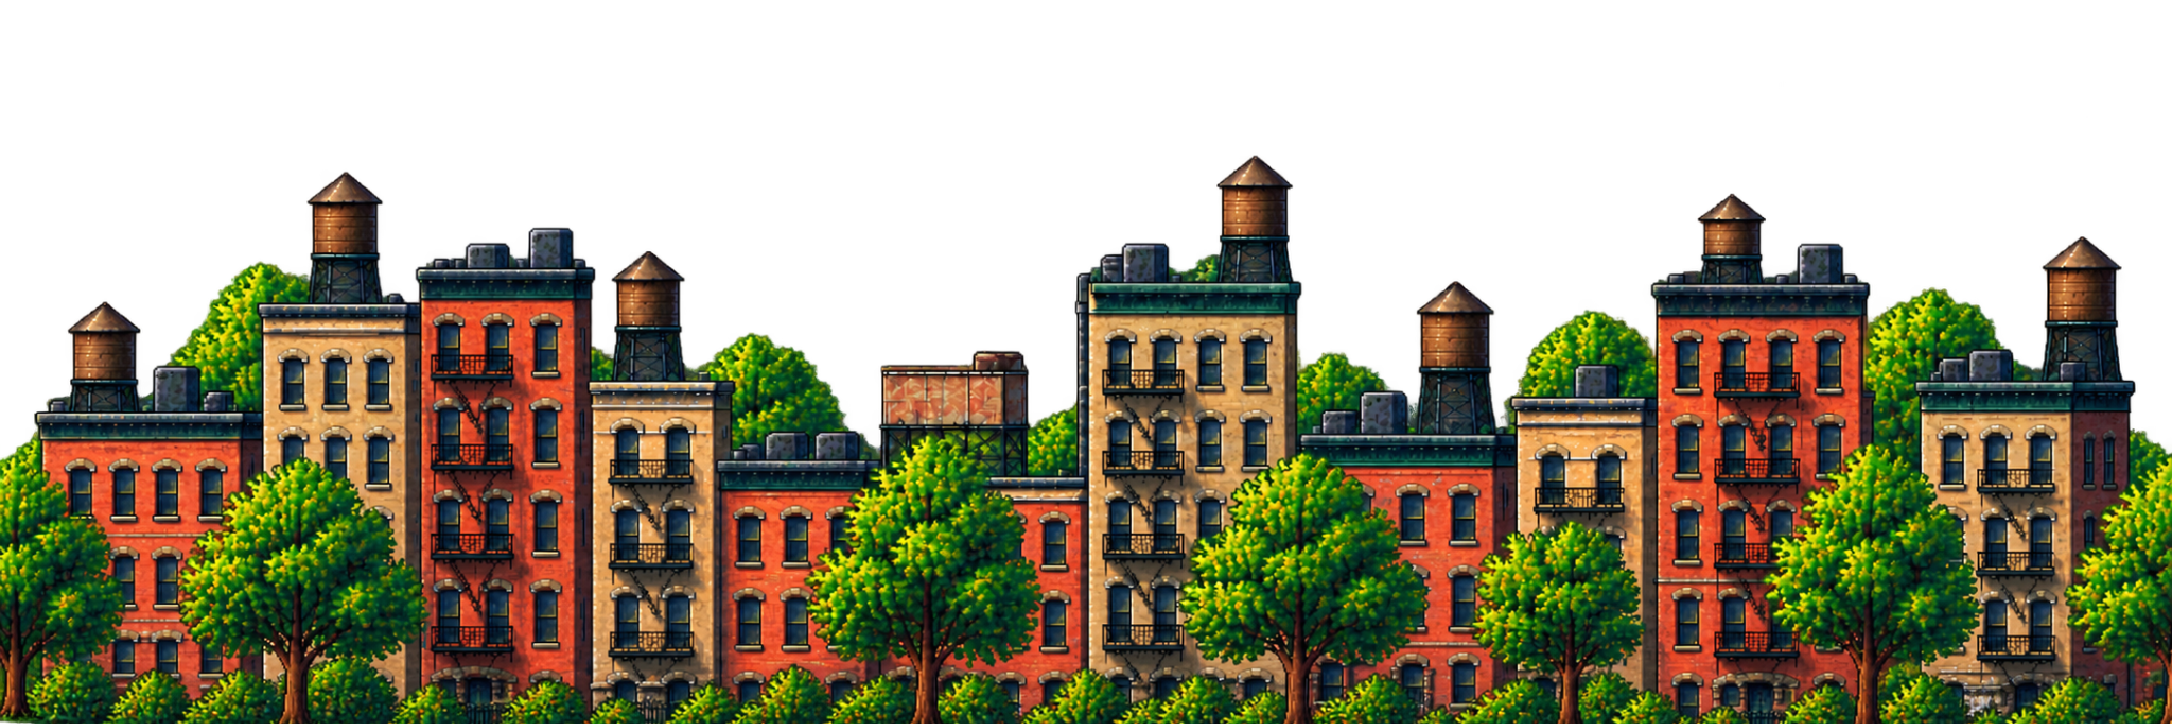
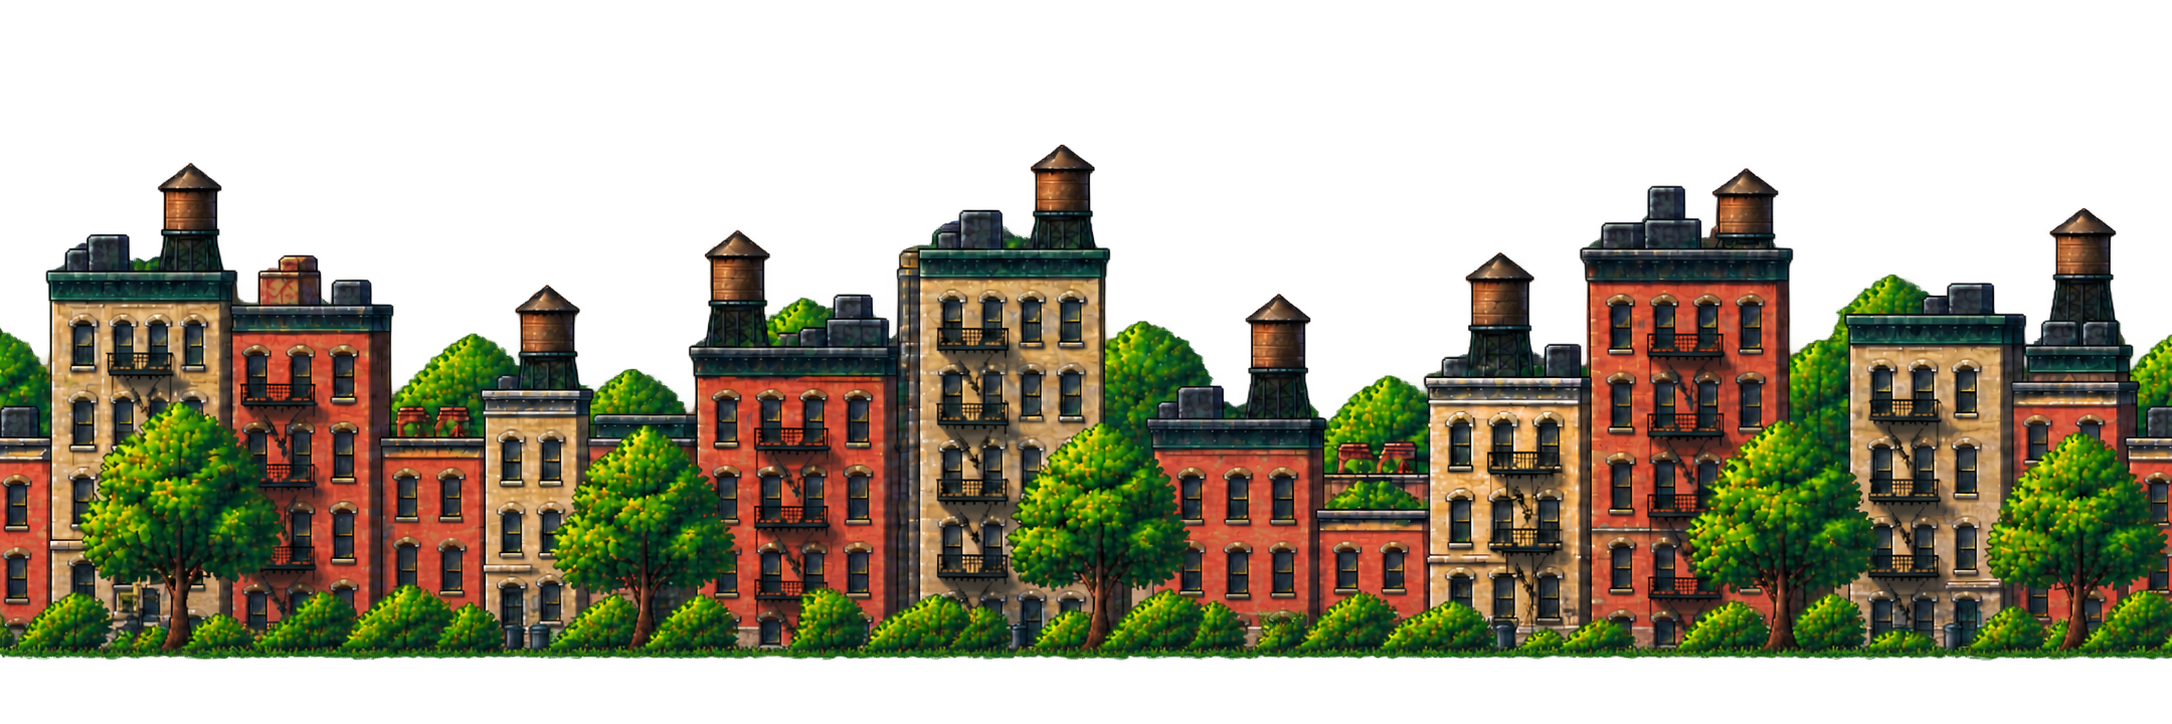
Deploy approved regenerated NA03 mid

diff --git a/src/js/game-runtime.js b/src/js/game-runtime.js
@@ -1403,7 +1403,7 @@ const ASSET_SOURCES={
  na02Mid:PHASE8_PILOT?"../assets/phase8-validation/north-america/NA02_BG_MID_PINES.png?v=cc4a6f43-verified":"../assets/worlds/north-america/NA02_BG_MID_PINES.png",
  na02Ground:PHASE8_PILOT?"../assets/phase8-validation/north-america/NA02_GROUND_TRAIL.png?v=f6ada52c-verified":"../assets/worlds/north-america/NA02_GROUND_TRAIL.png",
  na03Far:PHASE8_PILOT?"../assets/phase8-validation/north-america/NA03_BG_DISTANT_NYC.png?v=be8f72c6":"../assets/worlds/north-america/NA03_BG_DISTANT_NYC.png",
- na03Mid:PHASE8_PILOT?"../assets/phase8-validation/north-america/NA03_BG_MID_CITY.png?v=97b3a625":"../assets/worlds/north-america/NA03_BG_MID_CITY.png",
+ na03Mid:PHASE8_PILOT?"../assets/phase8-validation/north-america/NA03_BG_MID_CITY.png?v=adc6a17a":"../assets/worlds/north-america/NA03_BG_MID_CITY.png",
  na03Ground:PHASE8_PILOT?"../assets/phase8-validation/north-america/NA03_GROUND_CITY.png?v=095aa9cb":"../assets/worlds/north-america/NA03_GROUND_CITY.png",
  far:PHASE8_PILOT?"../assets/phase8-validation/north-america/NA01_BG_DISTANT_MESAS.png":"../assets/worlds/north-america/NA01_BG_DISTANT_MESAS.png",
  clouds:"../assets/shared/NA_CLOUD_LAYER.png"

diff --git a/docs/CURRENT_STATUS.md b/docs/CURRENT_STATUS.md
@@ -54,9 +54,9 @@ Production CI checks the production/development dependency boundary, syntax for 
 - cold first-load optimization / staged asset loading
 
 ## Next production step
-NA01 and NA02 landscape sets are approved. Dependent character/hazard grounding and later configuration calibration remain intentionally deferred until landscape generation is complete. NA03 is pending corrected complete-stage Git integration, deployed Design/Test/Game QA and one final user acceptance gate. It is not user-approved yet.
+NA01 and NA02 landscape sets are approved. Dependent character/hazard grounding and later configuration calibration remain intentionally deferred until landscape generation is complete. The newly generated NA03 MID standalone candidate is user-approved and is being integrated at standard runtime `Y=0`; NA03 still requires deployed Design/Test/Game QA and one final complete-stage user acceptance gate. The NA03 stage is not approved yet.
 
[2 lines of base64/hex data omitted]
 
 Current pilot QA evidence: NA01's yellow legacy seam, red rendered GROUND surface and cyan rendered MID base coincide at canonical Y=410, so the cyan guide (drawn last) visually covers the other two. This is expected alignment, not a missing ground guide. Legacy NA02 retains separated calibration values, so its three evidence lines remain visibly distinct.
 

diff --git a/docs/DECISION_LOG.md b/docs/DECISION_LOG.md
@@ -165,3 +165,9 @@ The ordinary attachment transport exposed only a resized 2048x684 proxy, while t
 Deployed integrated review exposed a small gap between the NA03 MID and GROUND at the standard runtime MID offset `Y=0`. The user verified that a runtime adjustment of approximately `+18` logical pixels closed the gap, resupplied the intended brownstone image and explicitly accepted its foliage and façade details for integration.
 
[1 lines of base64/hex data omitted]
+
+## 2026-09-18 — Fresh NA03 MID supersedes the translated supplied correction
+
+Deployed comparison at runtime MID offsets `Y=0` and `Y=-18` established that the translated supplied MID could not simultaneously retain the intended restrained bushes/sidewalk relationship and satisfy the universal standard runtime offset `Y=0`. The user authorized a fresh generation against the locked Phase 8 MID contract rather than further translation or optimization of the supplied image.
+
[1 lines of base64/hex data omitted]

diff --git a/docs/PHASE8_LANDSCAPE_PROMPT_MANIFEST.md b/docs/PHASE8_LANDSCAPE_PROMPT_MANIFEST.md
@@ -119,9 +119,9 @@ Create the GROUND gameplay layer on a transparent 2172 x 724 canvas. Author one 
 
 - Reference: `assets-original/current-generated/NA-assets/NA03_BG_MID_CITY.png`
 - Candidate: `assets/phase8-validation/north-america/NA03_BG_MID_CITY.png`
-- Status: USER-SUPPLIED CORRECTION INTEGRATED — pending deployed integrated-stage user acceptance
[1 lines of base64/hex data omitted]
-- Source treatment: the user-resupplied brownstone composition arrived through attachment transport at `2048x682`; it was restored with nearest-neighbor sampling to the required `2172x724` production canvas and translated downward by 41 source pixels, matching the user's tested runtime adjustment of approximately `+18` logical pixels while retaining the standard runtime MID offset `Y=0`.
+- Status: STANDALONE CANDIDATE USER-APPROVED — pending deployed integrated-stage user acceptance
[1 lines of base64/hex data omitted]
+- Source treatment: freshly generated at the required `2172x724` RGBA production canvas after deployed review showed the prior supplied composition could not achieve the desired foliage/sidewalk relationship at standard runtime `Y=0`. The approved standalone candidate uses restrained intermittent foundation shrubs, readable brownstone bases and taller street trees while retaining sufficient lower-edge coverage for the `Y=0` MID-to-GROUND overlap. No runtime MID offset is required.
 - Layer directive: MID
 - Stage lock: Preserve the row of varied brick brownstones and apartment buildings, rooftop water tanks/chimneys, street trees and warm urban palette. Keep the recognizable neighborhood silhouette and transparent sky; do not include the distant skyline, playable sidewalk or hazards.
 
